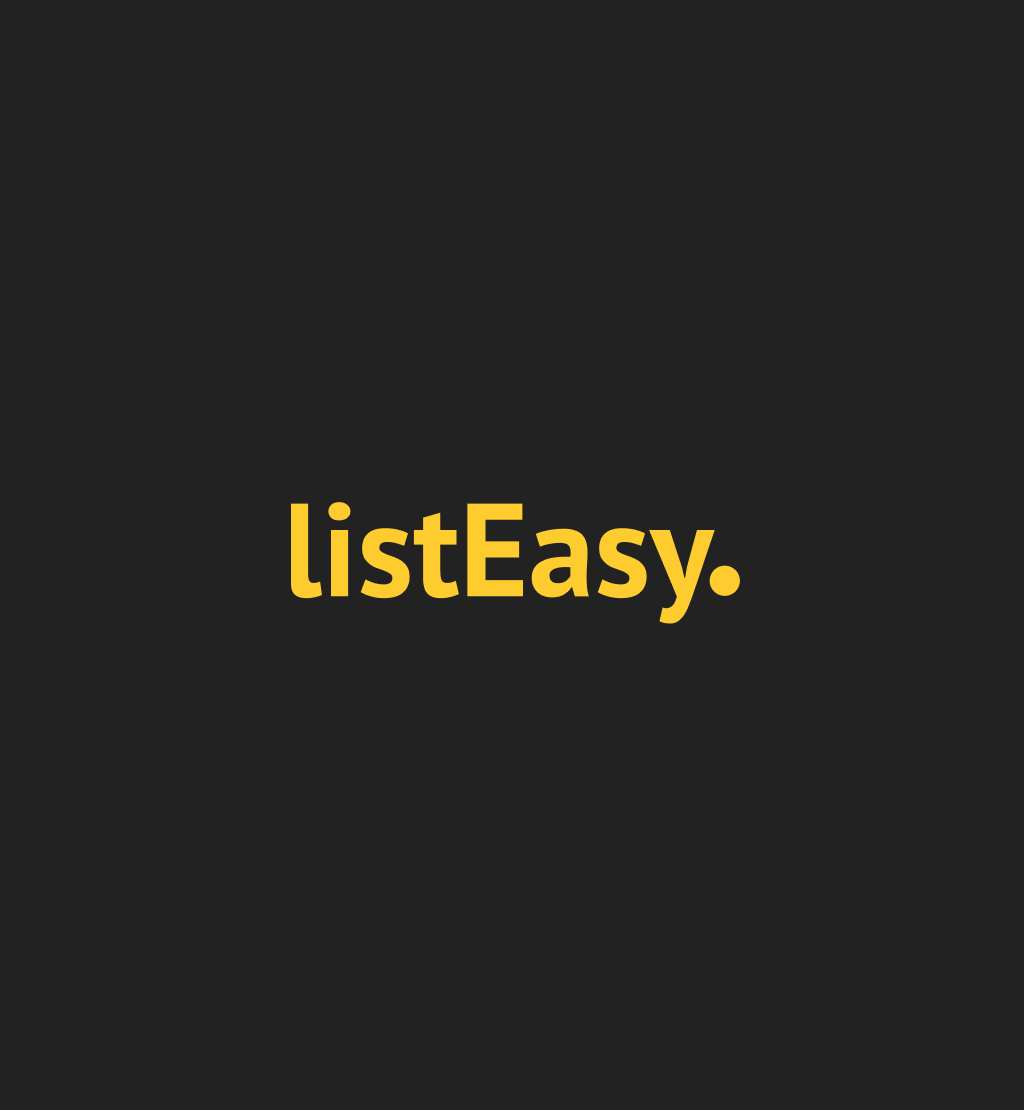
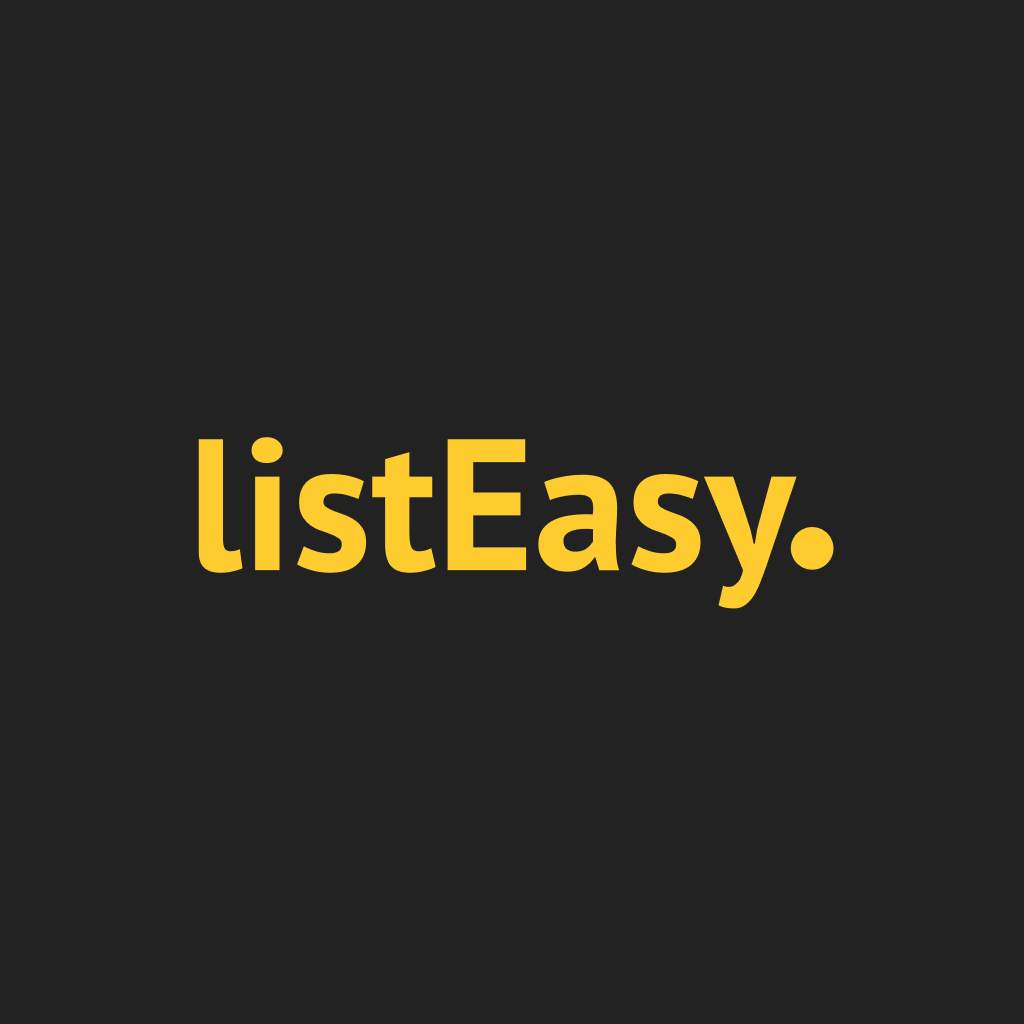
[CHORE] New splash screen setup

Changed region(s): [[0.1875, 0.4062, 0.8125, 0.5938]]

diff --git a/app.config.ts b/app.config.ts
@@ -10,11 +10,6 @@ const config: ExpoConfig = {
   icon: "./assets/icon.png",
   scheme: "listeasy",
   userInterfaceStyle: "automatic",
-  splash: {
-    image: "./assets/splash.png",
-    resizeMode: "contain",
-    backgroundColor: bgColor,
-  },
   ios: {
     supportsTablet: true,
   },
@@ -83,6 +78,15 @@ const config: ExpoConfig = {
       {
         merchantIdentifier: "merchant.com.listeasy",
         enableGooglePay: true,
+      },
+    ],
+    [
+      "expo-splash-screen",
+      {
+        image: "./assets/splash-icon.png",
+        imageWidth: 200,
+        resizeMode: "contain",
+        backgroundColor: bgColor,
       },
     ],
   ],
